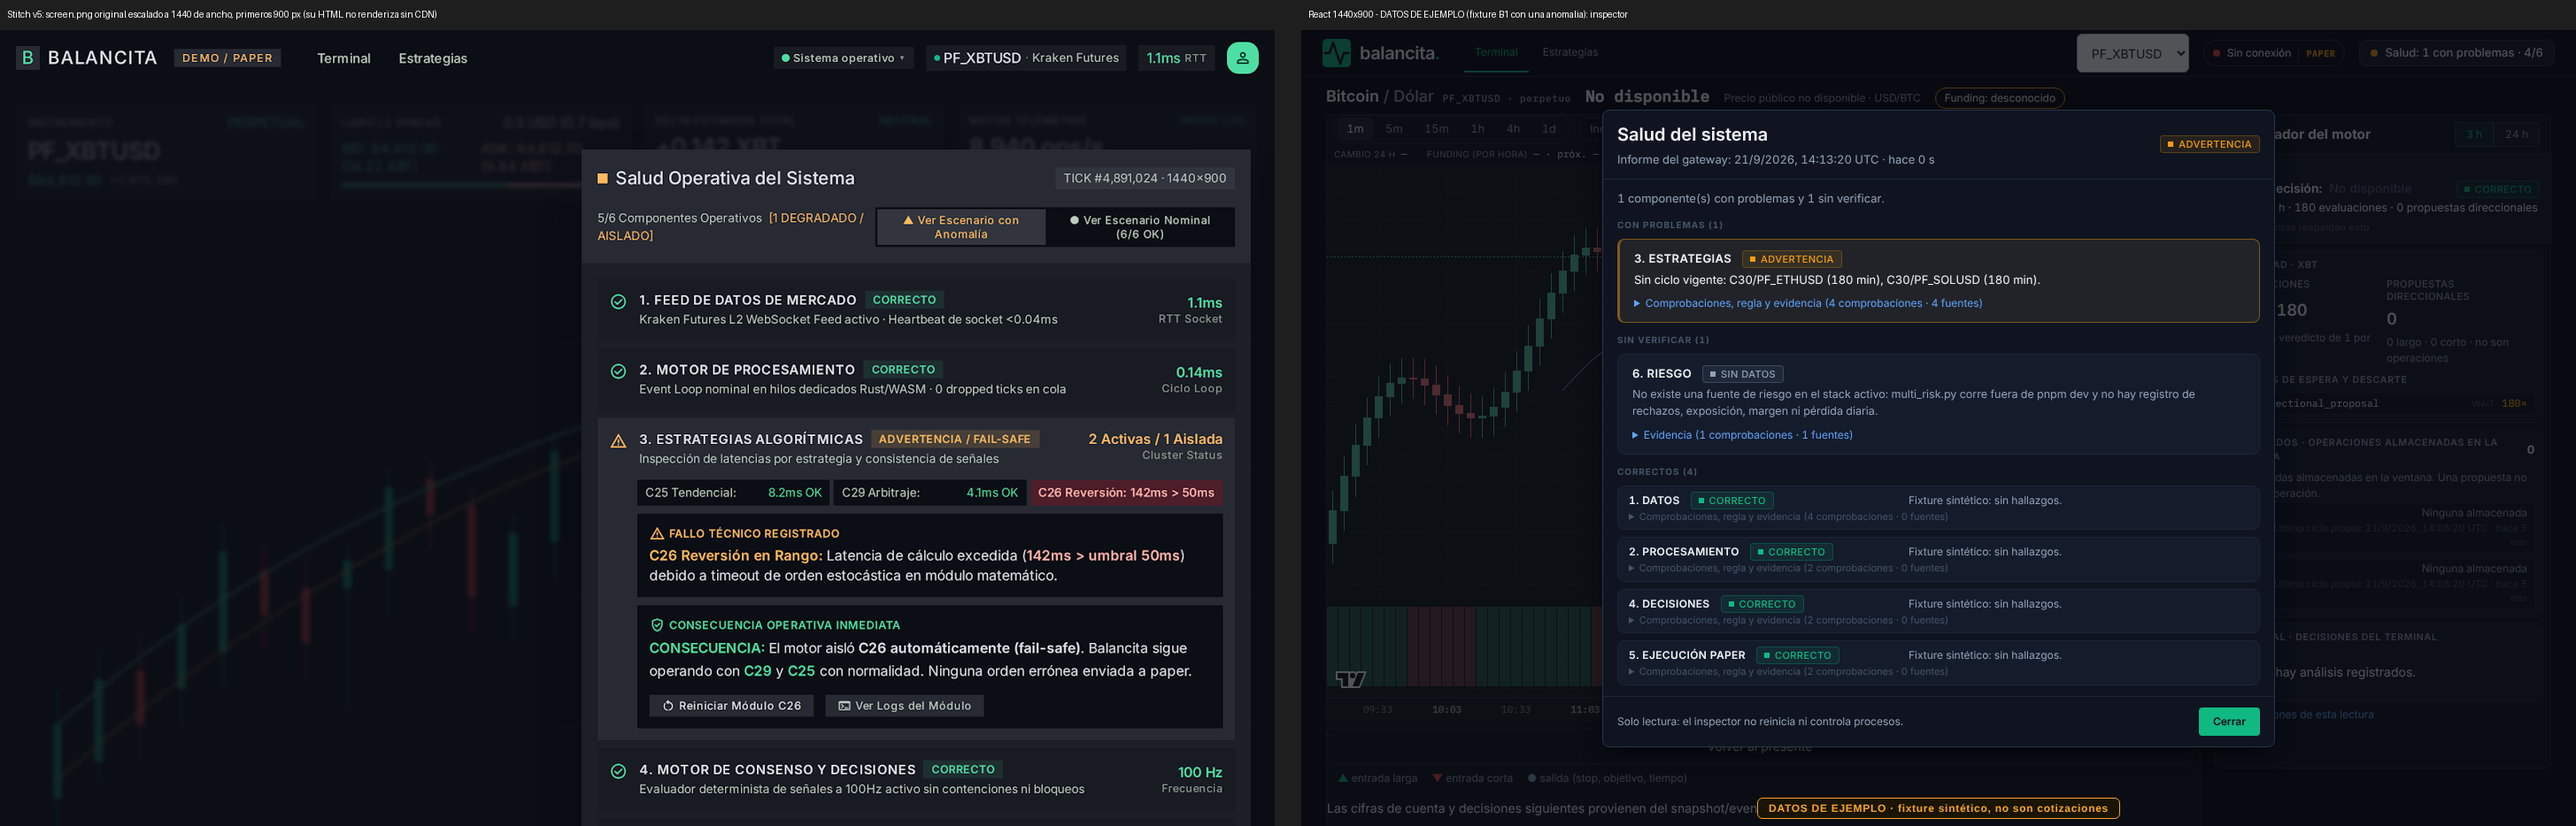
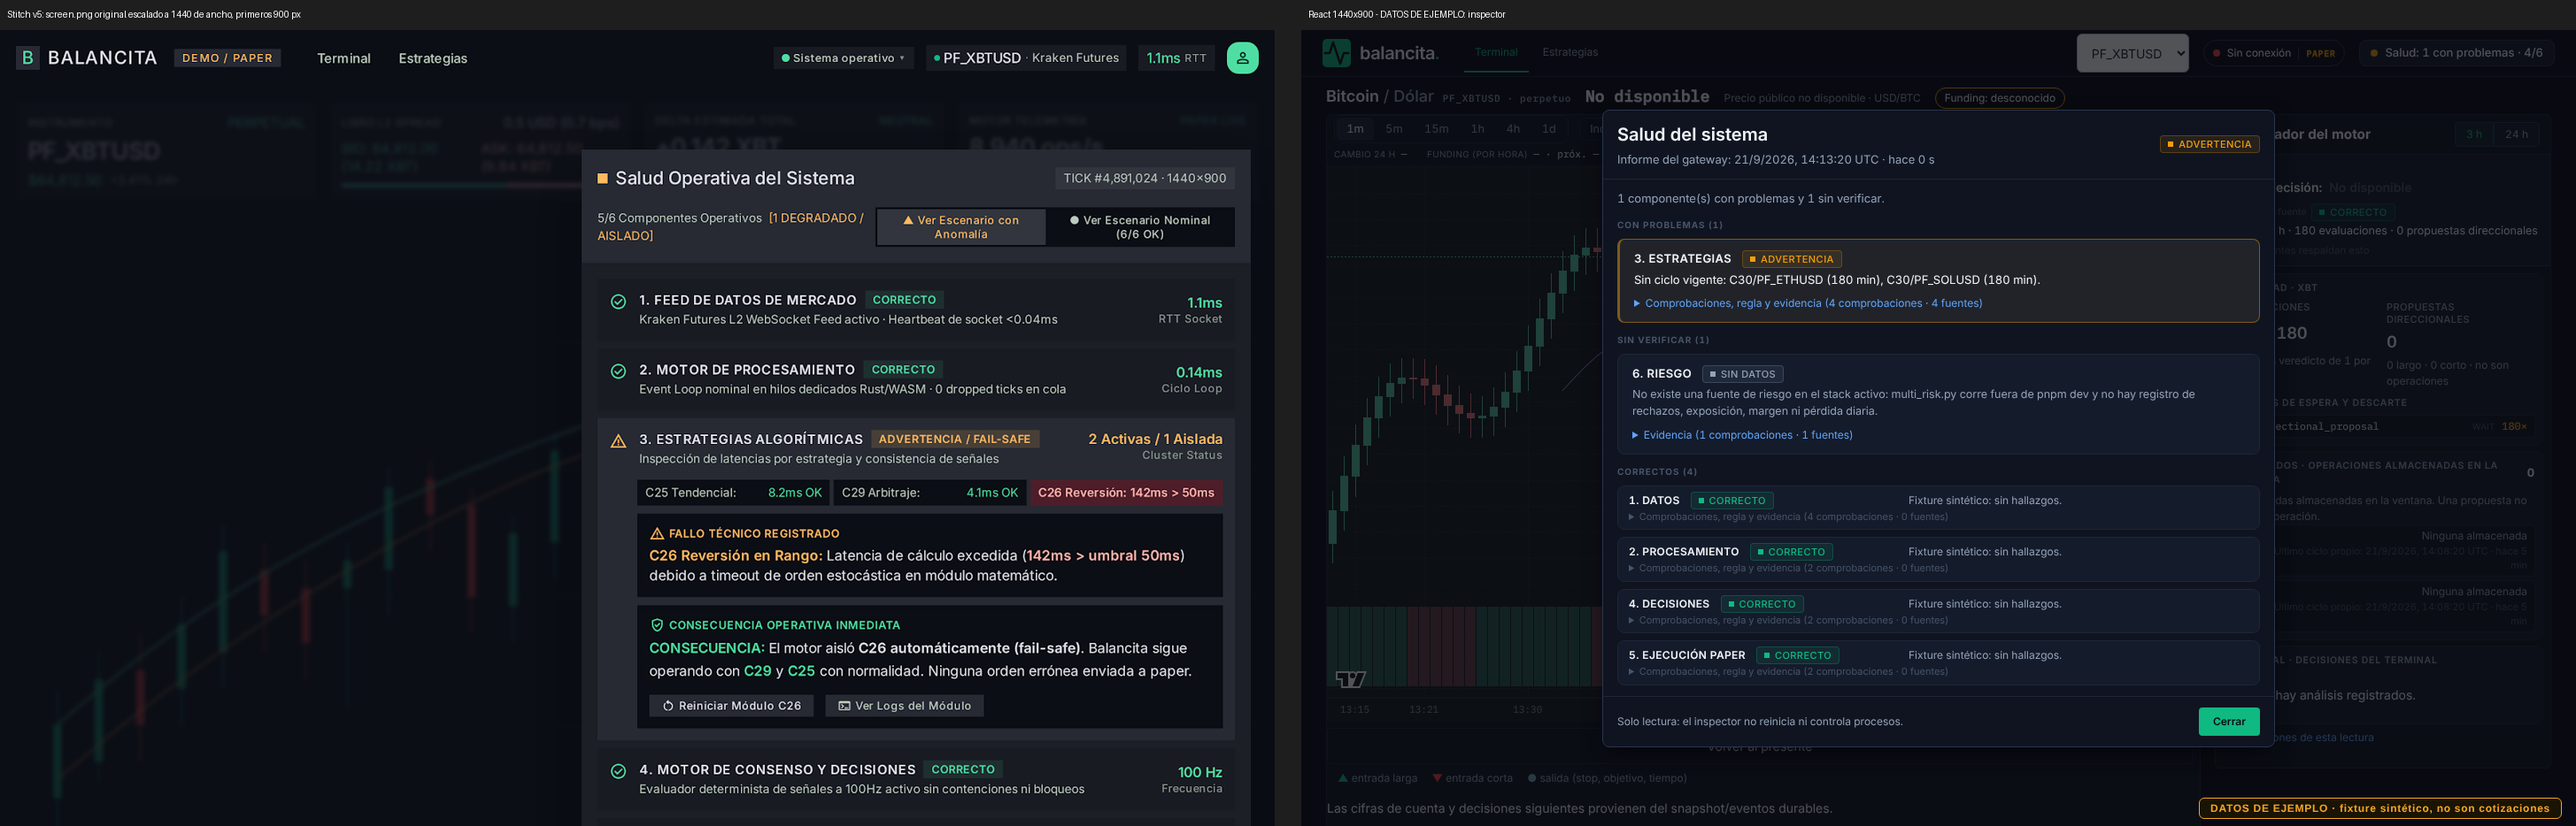
Terminal: etiqueta de ejemplo sin tapar, salud de la fuente en AHORA, fixture coherente con 1 m

diff --git a/e2e/terminal-observabilidad.pw.ts b/e2e/terminal-observabilidad.pw.ts
@@ -11,13 +11,13 @@ const NOW = 1_790_000_000_000
 const STEP = 300_000
 
 /** Example candles (a deterministic wave): only the chart's layout is under test. */
-function candles() {
+function candles(step = STEP) {
   let close = 100_000
   return Array.from({ length: 140 }, (_, i) => {
     const open = close
     close = open + Math.sin(i / 3) * 40 + Math.cos(i / 7) * 25
     return {
-      time_ms: NOW - (140 - i) * STEP,
+      time_ms: NOW - (140 - i) * step,
       open: String(open),
       high: String(Math.max(open, close) + 30),
       low: String(Math.min(open, close) - 30),
@@ -29,7 +29,8 @@ function candles() {
 }
 
 async function openTerminal(page: Page, health: unknown, activity: unknown) {
-  const series = candles()
+  // The selected timeframe is 1 m: the example candles are 1 m apart too.
+  const series = candles(60_000)
   const bootstrap = {
     schema_version: 1,
     mode: 'paper_live',
@@ -62,7 +63,11 @@ async function openTerminal(page: Page, health: unknown, activity: unknown) {
         interval_ms: Number(
           new URL(route.request().url()).searchParams.get('interval_ms'),
         ),
-        candles: series,
+        candles: candles(
+          Number(
+            new URL(route.request().url()).searchParams.get('interval_ms'),
+          ),
+        ),
         flow: [],
       },
     }),
@@ -148,7 +153,7 @@ async function labelFixture(page: Page) {
     tag.textContent =
       'DATOS DE EJEMPLO · fixture sintético, no son cotizaciones'
     tag.style.cssText =
-      'position:fixed;left:50%;bottom:8px;transform:translateX(-50%);z-index:99999;padding:4px 12px;border:1px solid #f5a524;border-radius:6px;background:#1a1405;color:#f5a524;font:600 12px sans-serif;letter-spacing:.06em'
+      'position:fixed;right:16px;bottom:8px;z-index:99999;padding:4px 12px;border:1px solid #f5a524;border-radius:6px;background:#1a1405;color:#f5a524;font:600 12px sans-serif;letter-spacing:.06em'
     document.body.appendChild(tag)
   })
 }

diff --git a/src/features/observability/presentation/ObserverPanel.tsx b/src/features/observability/presentation/ObserverPanel.tsx
@@ -60,6 +60,7 @@ function Now({
       <p className="obs-card__big" data-testid="last-decision">
         Última decisión: <span className="obs-na">No disponible</span>
         <span className="obs-card__pill">
+          <span className="obs-card__pill-label">Salud de la fuente</span>
           {decisions ? (
             <StatusPill tone={TONE[decisions.status]}>
               {LABEL[decisions.status]}

diff --git a/src/features/observability/presentation/observability.css b/src/features/observability/presentation/observability.css
@@ -502,3 +502,23 @@
   font-size: 12px;
   white-space: nowrap;
 }
+.obs-card__pill {
+  display: inline-flex;
+  align-items: center;
+  gap: 6px;
+}
+.obs-card__pill-label {
+  color: var(--mc-text-3);
+  font-size: 10.5px;
+  font-weight: 500;
+}
+.obs-card__big {
+  flex-wrap: wrap;
+}
+.obs-card__pill {
+  flex-basis: 100%;
+  margin-left: 0;
+}
+.obs-card__pill-label {
+  white-space: nowrap;
+}
